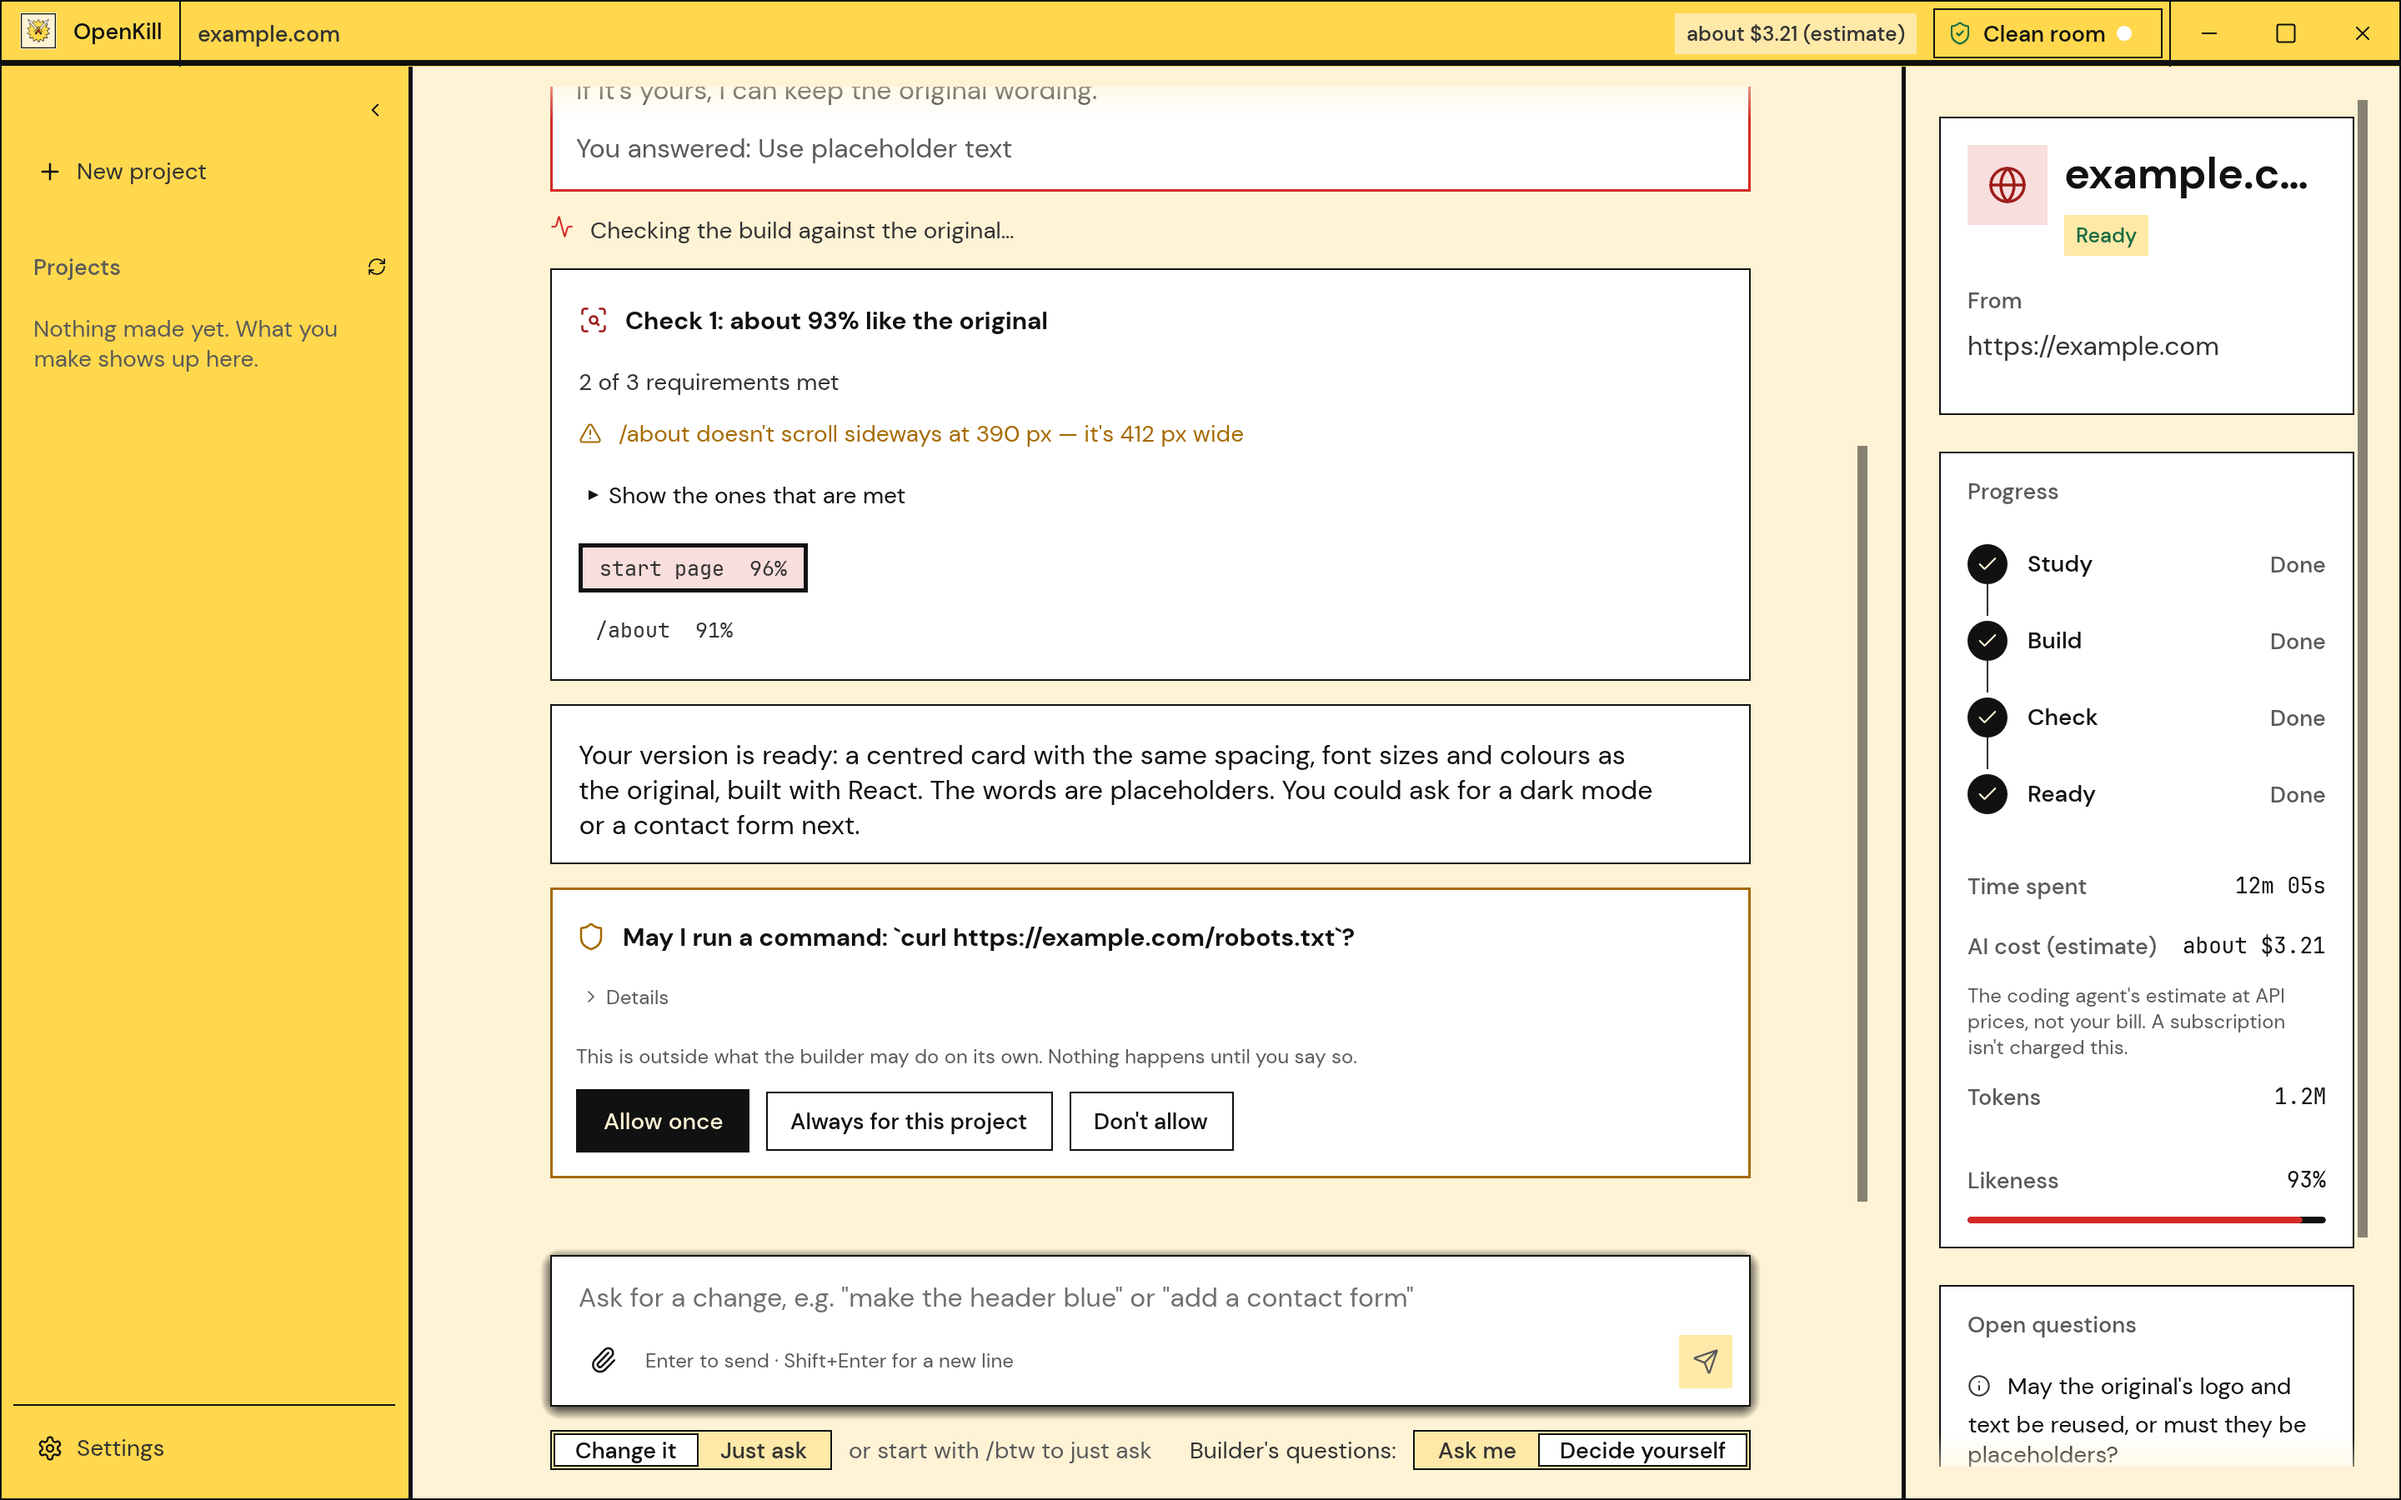
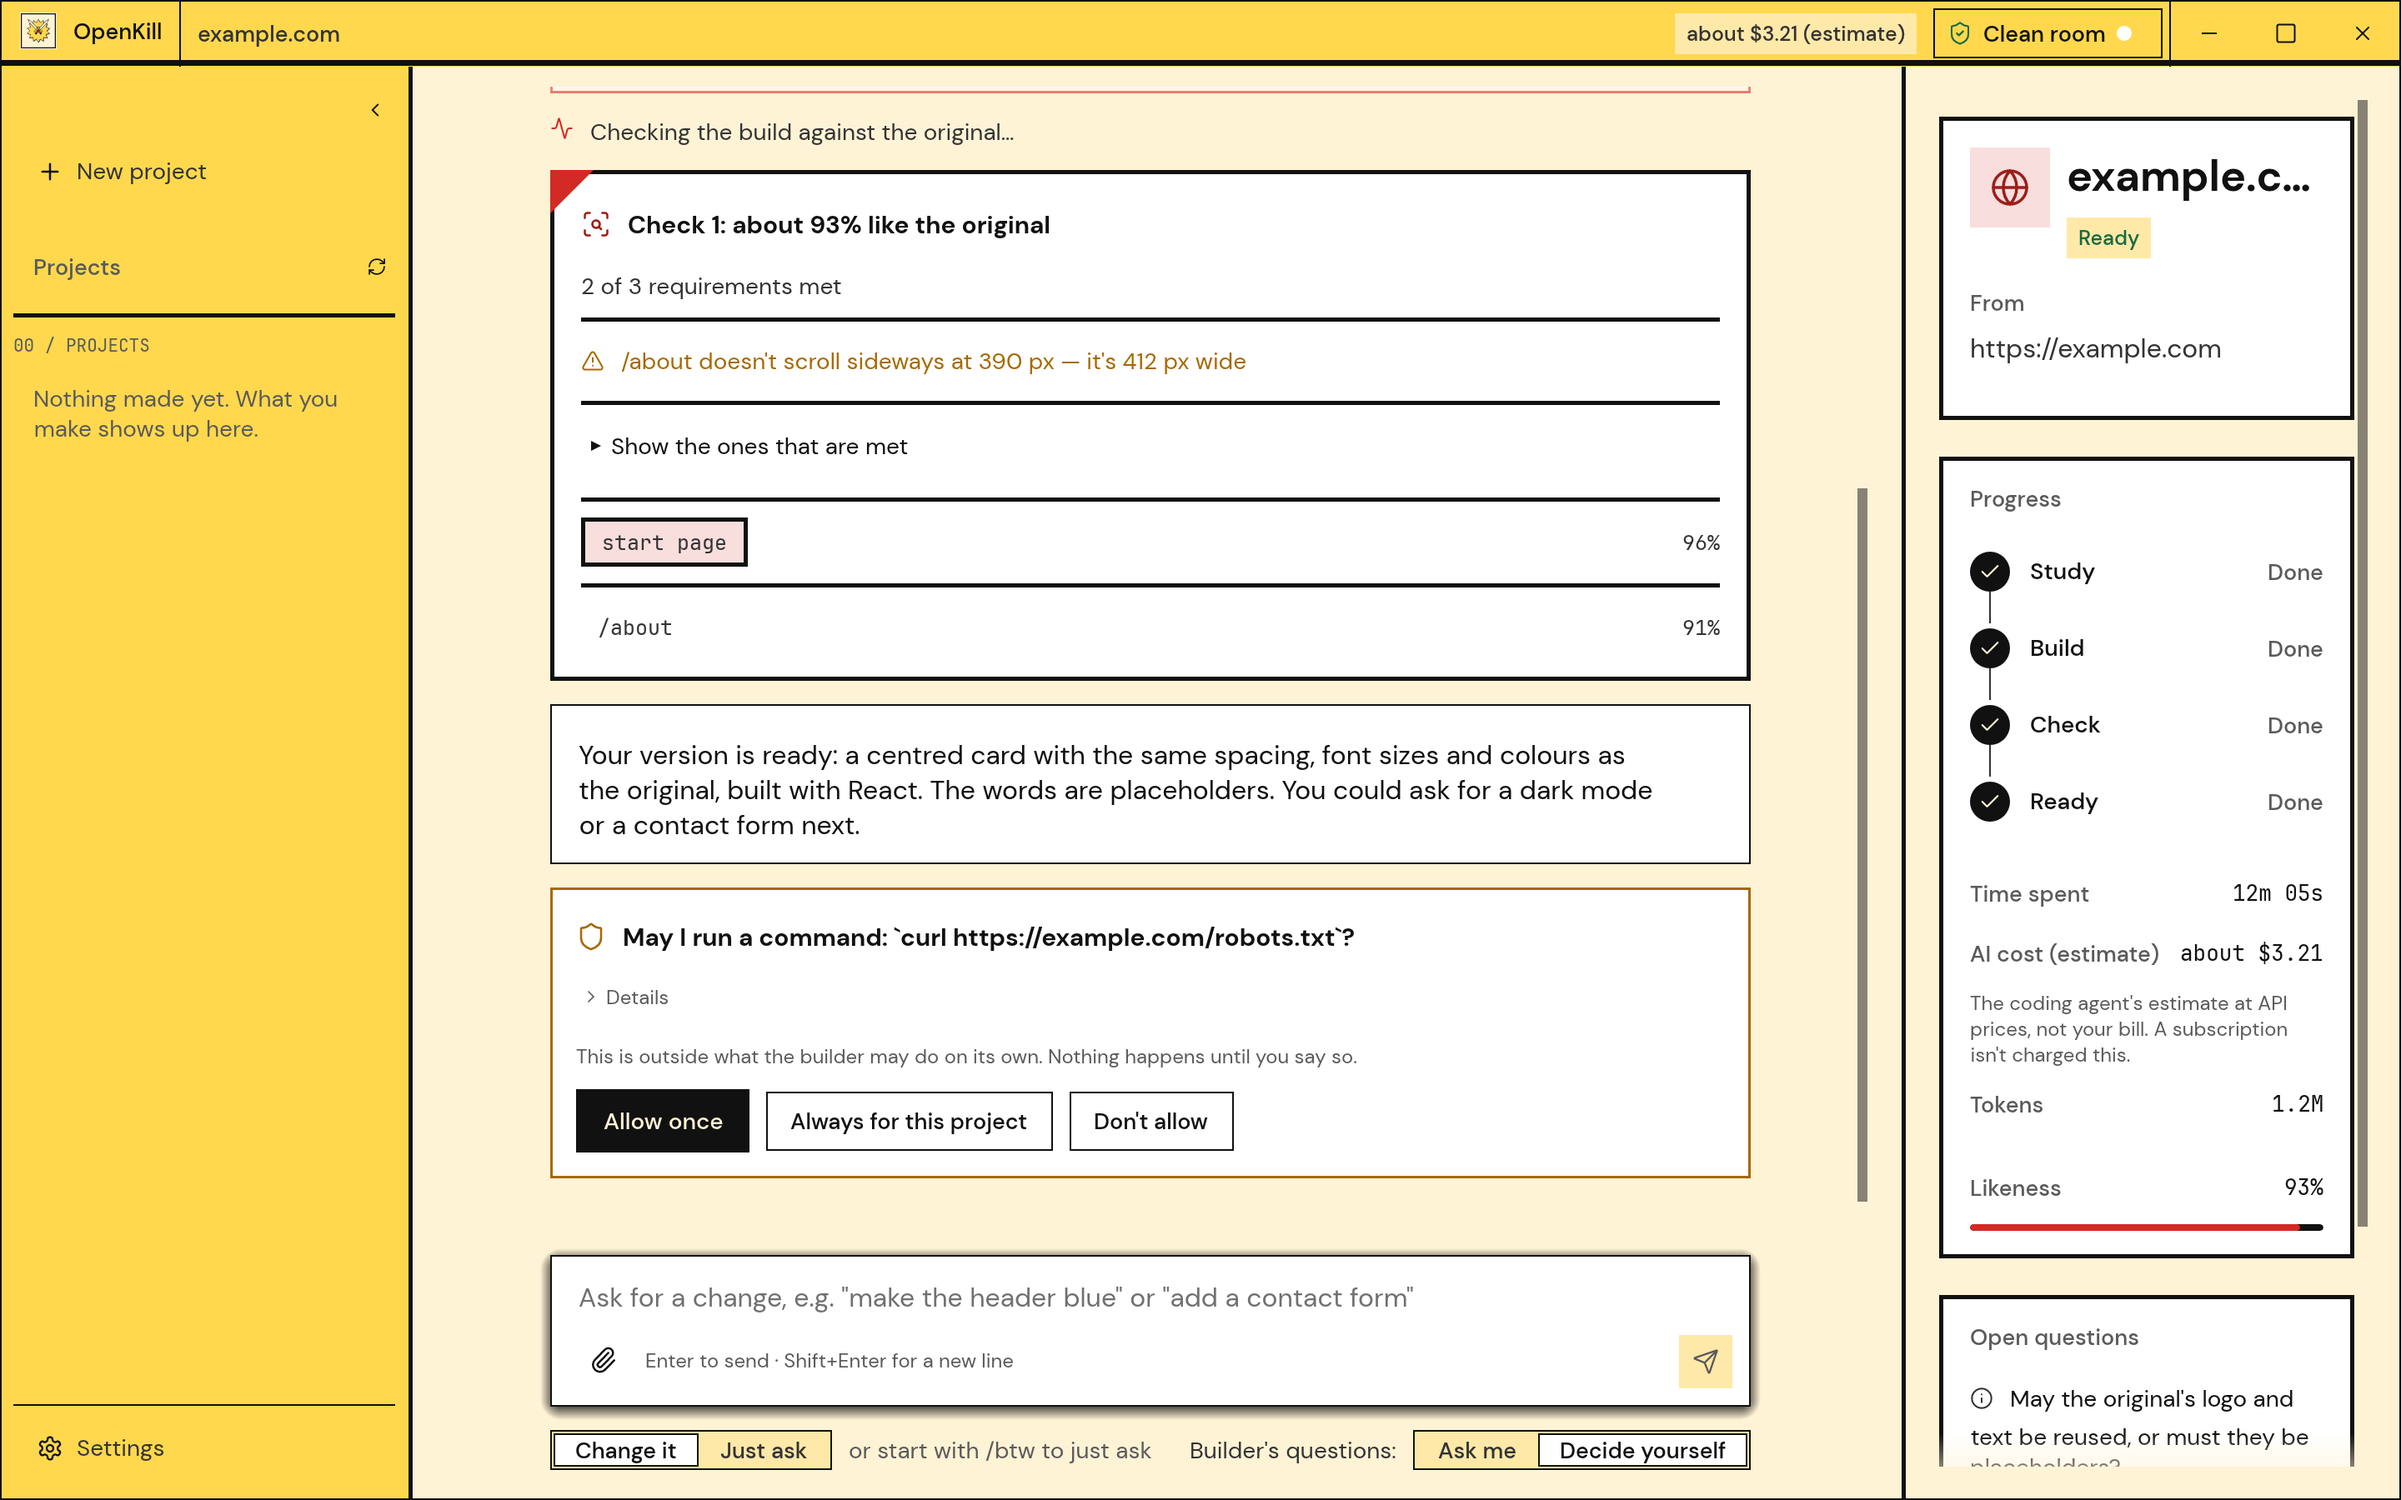
feat(ui): Pop Art is the default; comic corner and caps for Pop

diff --git a/crates/ui-egui/src/widgets.rs b/crates/ui-egui/src/widgets.rs
@@ -173,7 +173,8 @@ impl ComicCard {
 
 /// A card for the main work surfaces; Marvel gets the cut corner.
 pub fn comic_card(t: &Tokens) -> ComicCard {
-    ComicCard { frame: card(t), accent: t.accent, corner: t.kind == crate::theme::ThemeKind::Marvel }
+    let comic = matches!(t.kind, crate::theme::ThemeKind::Pop | crate::theme::ThemeKind::Marvel);
+    ComicCard { frame: card(t), accent: t.accent, corner: comic }
 }
 
 /// A quieter, denser panel frame for the workbench.

diff --git a/crates/ui-egui/src/theme.rs b/crates/ui-egui/src/theme.rs
@@ -461,7 +461,7 @@ pub const TINY: f32 = 11.0;
 pub fn display(ui: &egui::Ui, text: impl Into<String>, size: f32) -> egui::RichText {
     let t = Tokens::get(ui.ctx());
     let text: String = text.into();
-    let text = if t.kind == ThemeKind::Marvel { text.to_uppercase() } else { text };
+    let text = if matches!(t.kind, ThemeKind::Pop | ThemeKind::Marvel) { text.to_uppercase() } else { text };
     heading(text, size)
 }
 

diff --git a/crates/engine/src/settings.rs b/crates/engine/src/settings.rs
@@ -198,7 +198,7 @@ impl Default for Settings {
             version: SETTINGS_VERSION,
             mode: Mode::Beginner,
             deep_mode: false,
-            theme: "marvel".into(),
+            theme: "pop".into(),
             language: String::new(),
             first_run_done: false,
             engines: EngineSettings::default(),

diff --git a/docs/design/pop.md b/docs/design/pop.md
@@ -65,3 +65,9 @@
 - 每个控件都有黑描边；强调色只有一种红。
 - 首屏有 36px 主标题 + 等宽编号。
 - WCAG AA：正文 ≥4.5:1，边框 ≥3:1（theme.rs 单测覆盖）。
+
+## 8. 漫画细节（与 Marvel 共用）
+
+- 主内容卡与检查卡左上角切出 26px 红色三角。
+- 主标题自动转全大写（`theme::display`）。
+- Pop 为默认主题；Marvel 是同一套漫画细节的暗色版。

diff --git a/docs/design/marvel.md b/docs/design/marvel.md
@@ -58,7 +58,7 @@
 - 无圆角；卡片统一红描边。
 - 强调色只有 Marvel 红；金色只出现在徽章/警示。
 - 正文对比度 ≥ 4.5:1，边框 ≥ 3:1（theme.rs 单测覆盖）。
-- 主题开关五档：Studio / Light / Brutal / Pop / **Marvel**，默认 Marvel。
+- 主题开关五档：Studio / Light / Brutal / **Pop** / Marvel，默认 Pop。
 
 ## 7. 漫画化细节（本轮）
 
